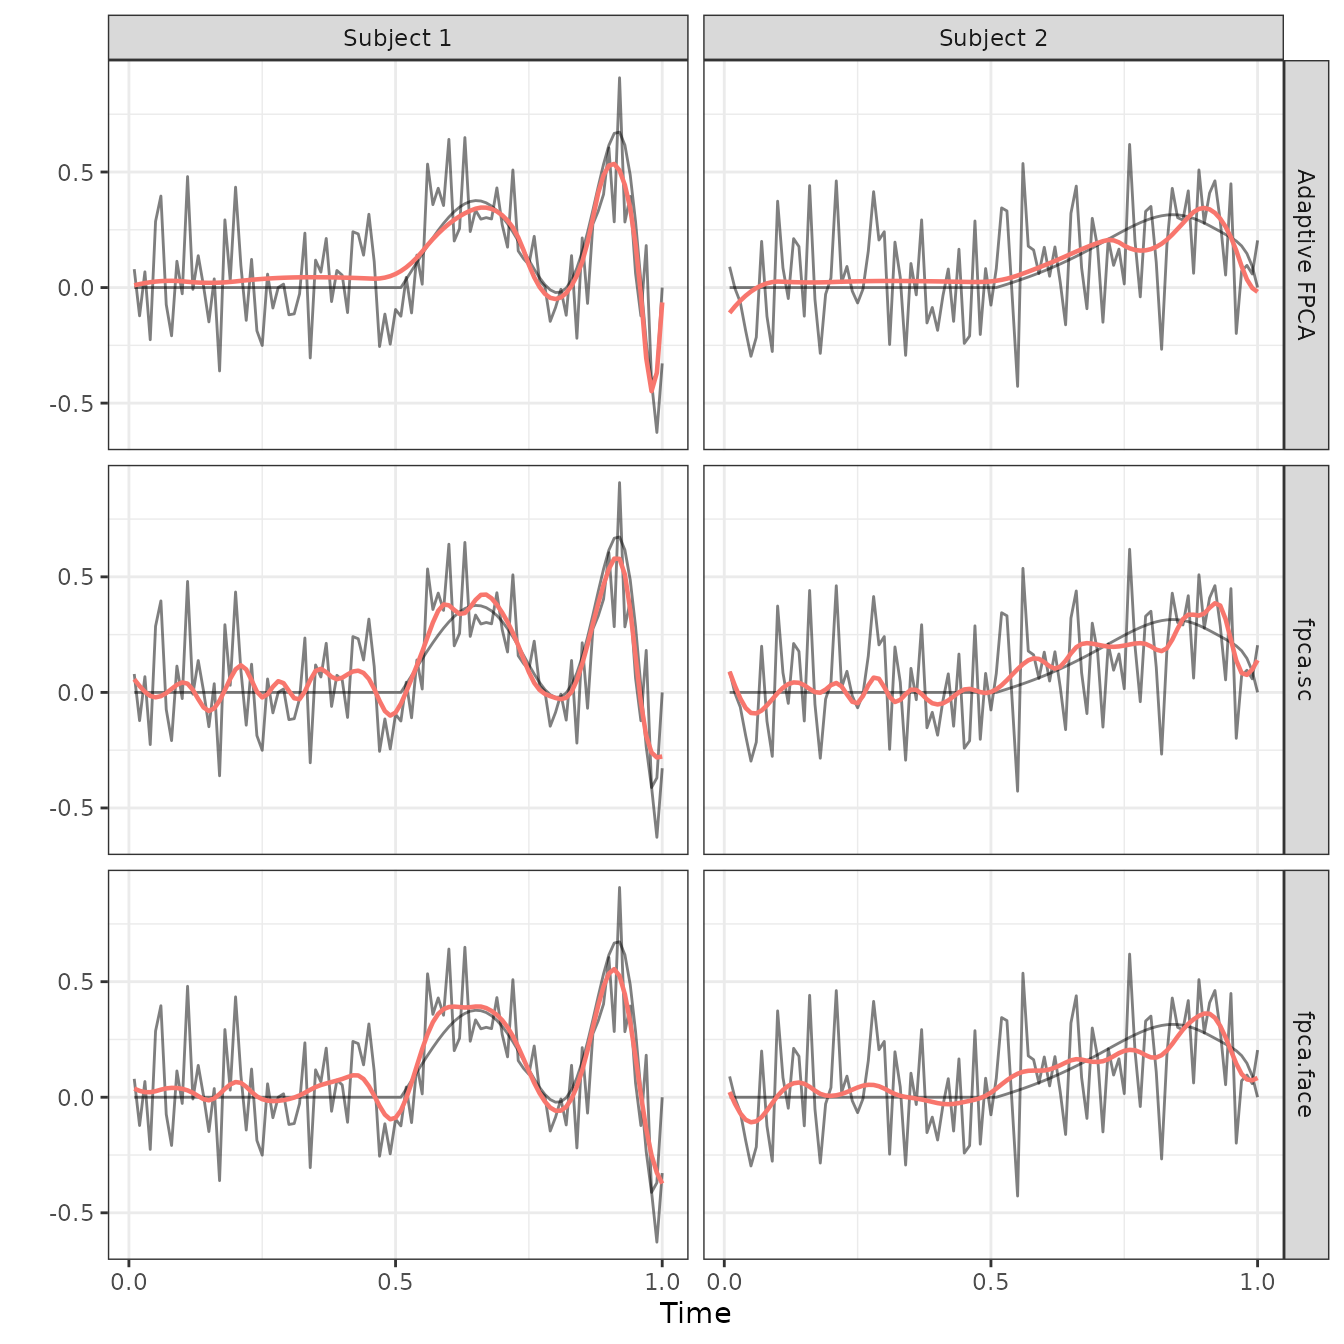
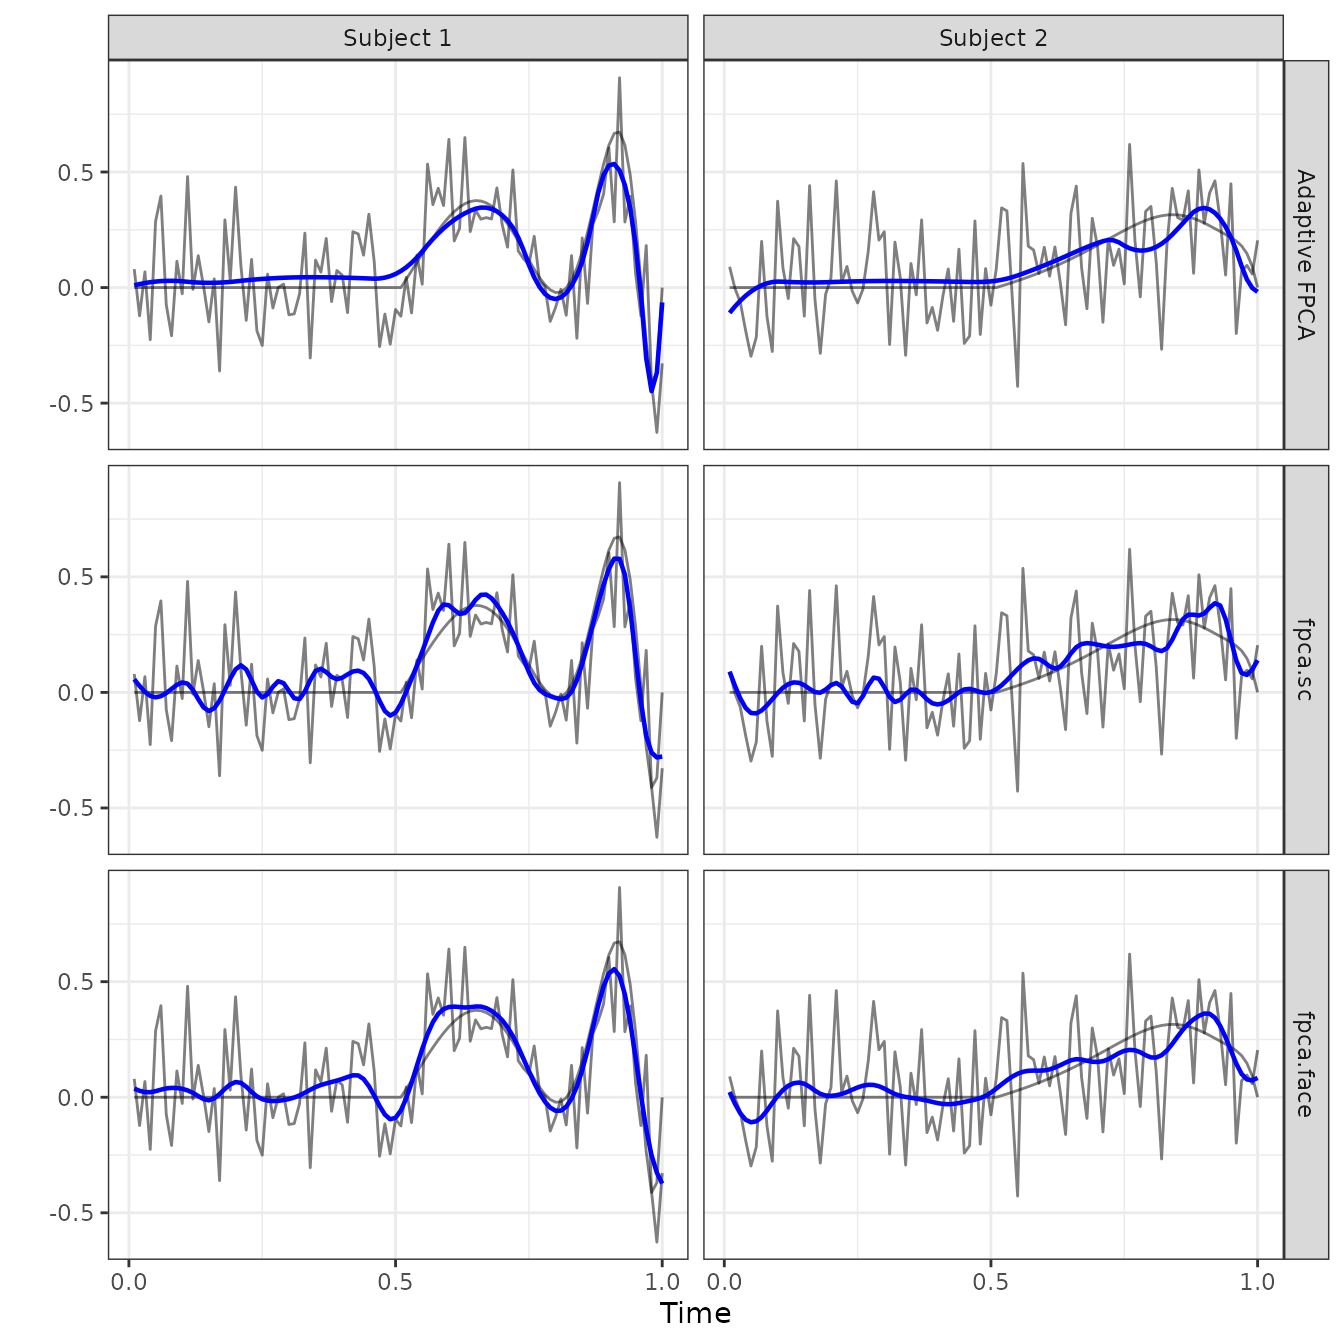
Deploying to gh-pages from @ angelgar/afpca@736daa71501dd1faf9c4764c2ef0b24c74d80529 🚀

diff --git a/articles/reproducibility_simulations.html b/articles/reproducibility_simulations.html
@@ -66,6 +66,10 @@
 
     
     
+<hr>
+<p>title: “Simulations Reproducibility” output: rmarkdown::html_vignette
+vignette: &gt; % % % editor_options: chunk_output_type: console</p>
+<hr>
 <div class="section level2">
 <h2 id="overview">Overview<a class="anchor" aria-label="anchor" href="#overview"></a>
 </h2>
@@ -393,7 +397,8 @@ representative subjects.</li>
 <h3 id="panel-b-observed-vs--fitted-for-two-subjects">Panel B: Observed vs. Fitted for Two Subjects<a class="anchor" aria-label="anchor" href="#panel-b-observed-vs--fitted-for-two-subjects"></a>
 </h3>
 <div class="sourceCode" id="cb5"><pre class="downlit sourceCode r">
-<code class="sourceCode R"><span><span class="va">run</span>      <span class="op">&lt;-</span> <span class="va">fig2_runs</span><span class="op">[[</span><span class="fl">1</span><span class="op">]</span><span class="op">]</span></span>
+<code class="sourceCode R"><span></span>
+<span><span class="va">run</span>      <span class="op">&lt;-</span> <span class="va">fig2_runs</span><span class="op">[[</span><span class="fl">1</span><span class="op">]</span><span class="op">]</span></span>
 <span><span class="va">subj_idx</span> <span class="op">&lt;-</span> <span class="fu"><a href="https://rdrr.io/r/base/c.html" class="external-link">c</a></span><span class="op">(</span><span class="fl">1</span>, <span class="fl">2</span><span class="op">)</span></span>
 <span></span>
 <span><span class="va">make_subject_df</span> <span class="op">&lt;-</span> <span class="kw">function</span><span class="op">(</span><span class="va">idx</span>, <span class="va">label</span>, <span class="va">run</span><span class="op">)</span> <span class="op">{</span></span>
@@ -431,7 +436,7 @@ representative subjects.</li>
 <span>  <span class="fu"><a href="https://ggplot2.tidyverse.org/reference/geom_path.html" class="external-link">geom_line</a></span><span class="op">(</span>data <span class="op">=</span> \<span class="op">(</span><span class="va">d</span><span class="op">)</span> <span class="fu"><a href="https://dplyr.tidyverse.org/reference/filter.html" class="external-link">filter</a></span><span class="op">(</span><span class="va">d</span>, <span class="va">type</span> <span class="op">!=</span> <span class="st">"Fitted"</span><span class="op">)</span>,</span>
 <span>            <span class="fu"><a href="https://ggplot2.tidyverse.org/reference/aes.html" class="external-link">aes</a></span><span class="op">(</span>group <span class="op">=</span> <span class="va">type</span><span class="op">)</span>, colour <span class="op">=</span> <span class="st">"black"</span>, alpha <span class="op">=</span> <span class="fl">0.5</span><span class="op">)</span> <span class="op">+</span></span>
 <span>  <span class="fu"><a href="https://ggplot2.tidyverse.org/reference/geom_path.html" class="external-link">geom_line</a></span><span class="op">(</span>data <span class="op">=</span> \<span class="op">(</span><span class="va">d</span><span class="op">)</span> <span class="fu"><a href="https://dplyr.tidyverse.org/reference/filter.html" class="external-link">filter</a></span><span class="op">(</span><span class="va">d</span>, <span class="va">type</span> <span class="op">==</span> <span class="st">"Fitted"</span><span class="op">)</span>,</span>
-<span>            <span class="fu"><a href="https://ggplot2.tidyverse.org/reference/aes.html" class="external-link">aes</a></span><span class="op">(</span>colour <span class="op">=</span> <span class="st">"blue"</span><span class="op">)</span>, linewidth <span class="op">=</span> <span class="fl">0.8</span><span class="op">)</span> <span class="op">+</span></span>
+<span>            colour <span class="op">=</span> <span class="st">"blue"</span>, linewidth <span class="op">=</span> <span class="fl">0.8</span><span class="op">)</span> <span class="op">+</span></span>
 <span>  <span class="fu"><a href="https://ggplot2.tidyverse.org/reference/facet_grid.html" class="external-link">facet_grid</a></span><span class="op">(</span><span class="va">method</span> <span class="op">~</span> <span class="va">subject</span>, scales <span class="op">=</span> <span class="st">"free_y"</span><span class="op">)</span> <span class="op">+</span></span>
 <span>  <span class="fu"><a href="https://ggplot2.tidyverse.org/reference/scale_continuous.html" class="external-link">scale_x_continuous</a></span><span class="op">(</span>breaks <span class="op">=</span> <span class="fu"><a href="https://rdrr.io/r/base/c.html" class="external-link">c</a></span><span class="op">(</span><span class="fl">0</span>, <span class="fl">0.5</span>, <span class="fl">1</span><span class="op">)</span><span class="op">)</span> <span class="op">+</span></span>
 <span>  <span class="fu"><a href="https://ggplot2.tidyverse.org/reference/labs.html" class="external-link">labs</a></span><span class="op">(</span>x <span class="op">=</span> <span class="st">"Time"</span>, y <span class="op">=</span> <span class="st">""</span>, colour <span class="op">=</span> <span class="st">"Method"</span><span class="op">)</span> <span class="op">+</span></span>

diff --git a/index.html b/index.html
@@ -66,7 +66,7 @@
 <li>Version: 0.9</li>
 </ul>
 <div class="section level2">
-<h2 id="what-is-does">What is does<a class="anchor" aria-label="anchor" href="#what-is-does"></a>
+<h2 id="what-it-does">What it does<a class="anchor" aria-label="anchor" href="#what-it-does"></a>
 </h2>
 <p>afpca implements Adaptive Functional Principal Component Analysis (aFPCA), a method for estimating directions of variation in functional data that exhibit sharp changes in smoothness. Standard FPCA methods impose a global smoothness assumption that can fail to capture abrupt transitions in the underlying signal. afpca addresses this by combining a fast and scalable adaptive scatterplot smoothing technique with a probabilistic FPCA framework, allowing functional principal components to be smoothed adaptively. This is particularly useful in applications such as neural recordings, where sharp changes in activity following a stimulus must be distinguished from smooth baseline behavior.</p>
 </div>

diff --git a/articles/reproducibility_simulations.md b/articles/reproducibility_simulations.md
@@ -1,5 +1,12 @@
 # Simulations Reproducibility
 
+------------------------------------------------------------------------
+
+title: “Simulations Reproducibility” output: rmarkdown::html_vignette
+vignette: \> % % % editor_options: chunk_output_type: console
+
+------------------------------------------------------------------------
+
 ## Overview
 
 This vignette presents a small-scale version of the simulation study
@@ -316,6 +323,7 @@ figure2_panelA
 
 ``` r
 
+
 run      <- fig2_runs[[1]]
 subj_idx <- c(1, 2)
 
@@ -354,7 +362,7 @@ figure2_panelB <- panelB_data |>
   geom_line(data = \(d) filter(d, type != "Fitted"),
             aes(group = type), colour = "black", alpha = 0.5) +
   geom_line(data = \(d) filter(d, type == "Fitted"),
-            aes(colour = "blue"), linewidth = 0.8) +
+            colour = "blue", linewidth = 0.8) +
   facet_grid(method ~ subject, scales = "free_y") +
   scale_x_continuous(breaks = c(0, 0.5, 1)) +
   labs(x = "Time", y = "", colour = "Method") +

diff --git a/index.md b/index.md
@@ -9,7 +9,7 @@ Adaptive Functional Principal Component Analysis
   [LICENSE](LICENSE) file for details
 - Version: 0.9
 
-## What is does
+## What it does
 
 afpca implements Adaptive Functional Principal Component Analysis
 (aFPCA), a method for estimating directions of variation in functional
